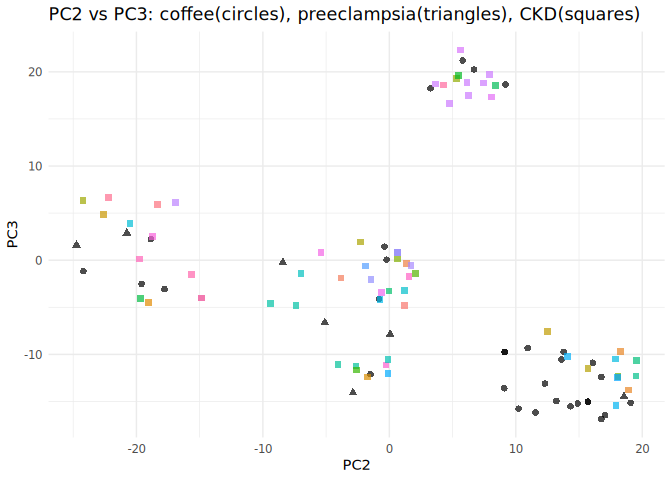
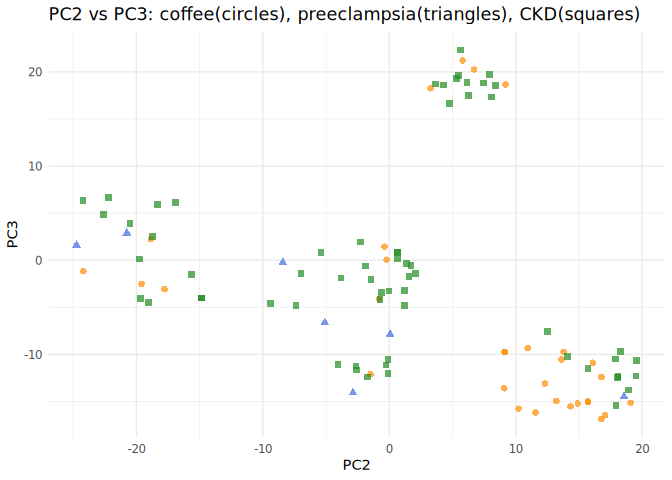
color and stuff

diff --git a/README.md b/README.md
@@ -16,24 +16,16 @@ library(knitr)
 library(httr2)
 library(jsonlite)
 library(dplyr)
-#> 
-#> Attaching package: 'dplyr'
-#> The following objects are masked from 'package:stats':
-#> 
-#>     filter, lag
-#> The following objects are masked from 'package:base':
-#> 
-#>     intersect, setdiff, setequal, union
 library(ggplot2)
 ```
 
-## 1. Peek into remote parquet files
+## Peek into remote parquet files
 
 ``` r
 # Use OpenRemoteParquetView to inspect the first few rows
 OpenRemoteParquetView()
 #> # Source:   table<embeddings> [?? x 6]
-#> # Database: DuckDB 1.4.0 [root@Linux 6.8.0-78-generic:R 4.5.1//tmp/Rtmp5UETN5/file8bed22ff9a582.duckdb]
+#> # Database: DuckDB 1.4.0 [root@Linux 6.8.0-78-generic:R 4.5.1//tmp/Rtmp3zw6b2/file8e2905dcefb91.duckdb]
 #>    chrom pos       ref_UKB alt_UKB rsid       embedding    
 #>    <chr> <chr>     <chr>   <chr>   <chr>      <list>       
 #>  1 5     148899362 T       G       rs4705280  <dbl [3,072]>
@@ -49,23 +41,23 @@ OpenRemoteParquetView()
 #> # ℹ more rows
 ```
 
-## 2. Copy remote parquet files into local DuckDB
+## Copy remote parquet files into local DuckDB
 
 ``` r
 system.time(
-# can comment this out to skip these
 {
+# can comment this out to skip these
 unlink("local_embeddings.duckdb")
 CopyParquetToDuckDB(db_path = "local_embeddings.duckdb", overwrite = FALSE)
 })
 #> Copied parquet files to DuckDB table 'embeddings' in database 'local_embeddings.duckdb'.
 #>    user  system elapsed 
-#>  78.172  24.039 113.093
+#>  73.740  23.506 113.390
 file.info("local_embeddings.duckdb")$size
-#> [1] 12128628736
+#> [1] 12106084352
 ```
 
-## 3. Write embeddings to houba mmatrix
+## Write embeddings to houba mmatrix
 
 ``` r
 system.time({
@@ -85,7 +77,7 @@ overwrite = FALSE)
 #> Processed rows 600001 to 616386
 #> Done writing embeddings and info to houba mmatrix.
 #>    user  system elapsed 
-#>  36.294  22.814  48.381
+#>  36.934  21.554  47.454
 houba
 #> Houba mmatrix file: local_embeddings.houba 
 #> Embeddings (houba::mmatrix):
@@ -116,7 +108,7 @@ file.info("local_embeddings.houba")$size
 #> [1] 15148302336
 ```
 
-## 4. Run PCA on houba mmatrix
+## Run PCA on houba mmatrix
 
 ``` r
 system.time(
@@ -126,10 +118,10 @@ system.time(
 #> Dimensions: 616386 x 3072
 #> Running PCA with center=TRUE, scale=TRUE, ncomp=15
 #>    user  system elapsed 
-#> 375.320 138.759  57.482
+#> 368.701 124.580  57.627
 ```
 
-## 5. Get PCA scores
+## Get PCA scores
 
 ``` r
 pc_scores <- getPcaScores(pca_res)
@@ -137,7 +129,7 @@ object.size(pc_scores)
 #> 73966536 bytes
 ```
 
-## 6. Plot PCA dimensions (colored by chromosome)
+## Plot PCA dimensions (colored by chromosome)
 
 ``` r
 plotPcaDims(pc_scores, houba$info, annotation_col = "chrom", dim1 = 1, dim2 = 2)
@@ -157,7 +149,7 @@ plotPcaDims(pc_scores, houba$info, annotation_col = "chrom", dim1 = 3, dim2 = 4)
 
 <img src="docs/README-unnamed-chunk-8-3.png" width="100%" />
 
-## 7. Annotate variants from ensembl phenotype endpoint plot in the PCA spaces
+## Annotate variants from ensembl phenotype endpoint plot in the PCA spaces
 
 ``` r
 # Helper function to fetch and extract annotation
@@ -203,13 +195,13 @@ ckd_snps <- subset(plotDf, !is.na(gen_ckd)) |>
 
 # Plot: coffee SNPs as circles, preeclampsia SNPs as triangles, CKD SNPs as squares
 plot_pc_pair <- function(pc_x, pc_y, title) {
-ggplot() +
-  geom_point(data = coffee_snps, aes(x = .data[[pc_x]], y = .data[[pc_y]]), shape = 16, size = 2, alpha = 0.7) +
-  geom_point(data = preeclampsia_snps, aes(x = .data[[pc_x]], y = .data[[pc_y]]), shape = 17, size = 2, alpha = 0.7) +
-  geom_point(data = ckd_snps, aes(x = .data[[pc_x]], y = .data[[pc_y]], color = .data[["gen_ckd"]]), shape = 15, size = 2, alpha = 0.7) +
-  labs(title = title, x = pc_x, y = pc_y) +
-  theme_minimal() +
-  theme(legend.position = "none")
+  ggplot() +
+    geom_point(data = coffee_snps, aes(x = .data[[pc_x]], y = .data[[pc_y]]), color = "darkorange", shape = 16, size = 2, alpha = 0.7) +
+    geom_point(data = preeclampsia_snps, aes(x = .data[[pc_x]], y = .data[[pc_y]]), color = "royalblue", shape = 17, size = 2, alpha = 0.7) +
+    geom_point(data = ckd_snps, aes(x = .data[[pc_x]], y = .data[[pc_y]]), color = "forestgreen", shape = 15, size = 2, alpha = 0.7) +
+    labs(title = title, x = pc_x, y = pc_y) +
+    theme_minimal() +
+    theme(legend.position = "none")
 }
 plot_pc_pair("PC1", "PC2", "PC1 vs PC2: coffee(circles), preeclampsia(triangles), CKD(squares) ")
 ```
